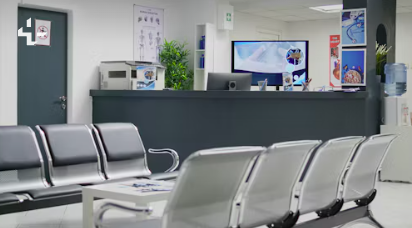
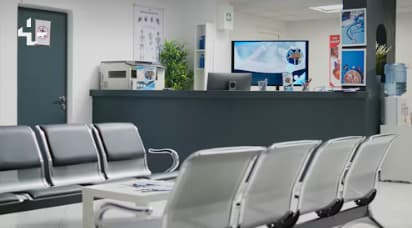
Optimizar imágenes y fijar la barra de navegación

diff --git a/index.html b/index.html
@@ -1,5 +1,5 @@
 <!DOCTYPE html>
-<html lang="es">
+<html lang="es" class="scroll-smooth scroll-pt-40 md:scroll-pt-24">
 <head>
   <meta charset="UTF-8">
   <meta name="viewport" content="width=device-width, initial-scale=1.0">
@@ -38,7 +38,7 @@
   </div>
 
   <!-- ENCABEZADO -->
-  <header class="bg-white shadow-sm">
+  <header class="sticky top-0 z-40 bg-white shadow-sm">
     <div class="mx-auto flex max-w-6xl flex-col gap-3 px-4 py-4 md:flex-row md:items-center md:justify-between">
       <a href="index.html" class="text-2xl font-bold text-teal-700">HealthCore</a>
       <nav aria-label="Navegación principal" class="flex flex-wrap items-center gap-x-5 gap-y-2 text-sm font-medium">
